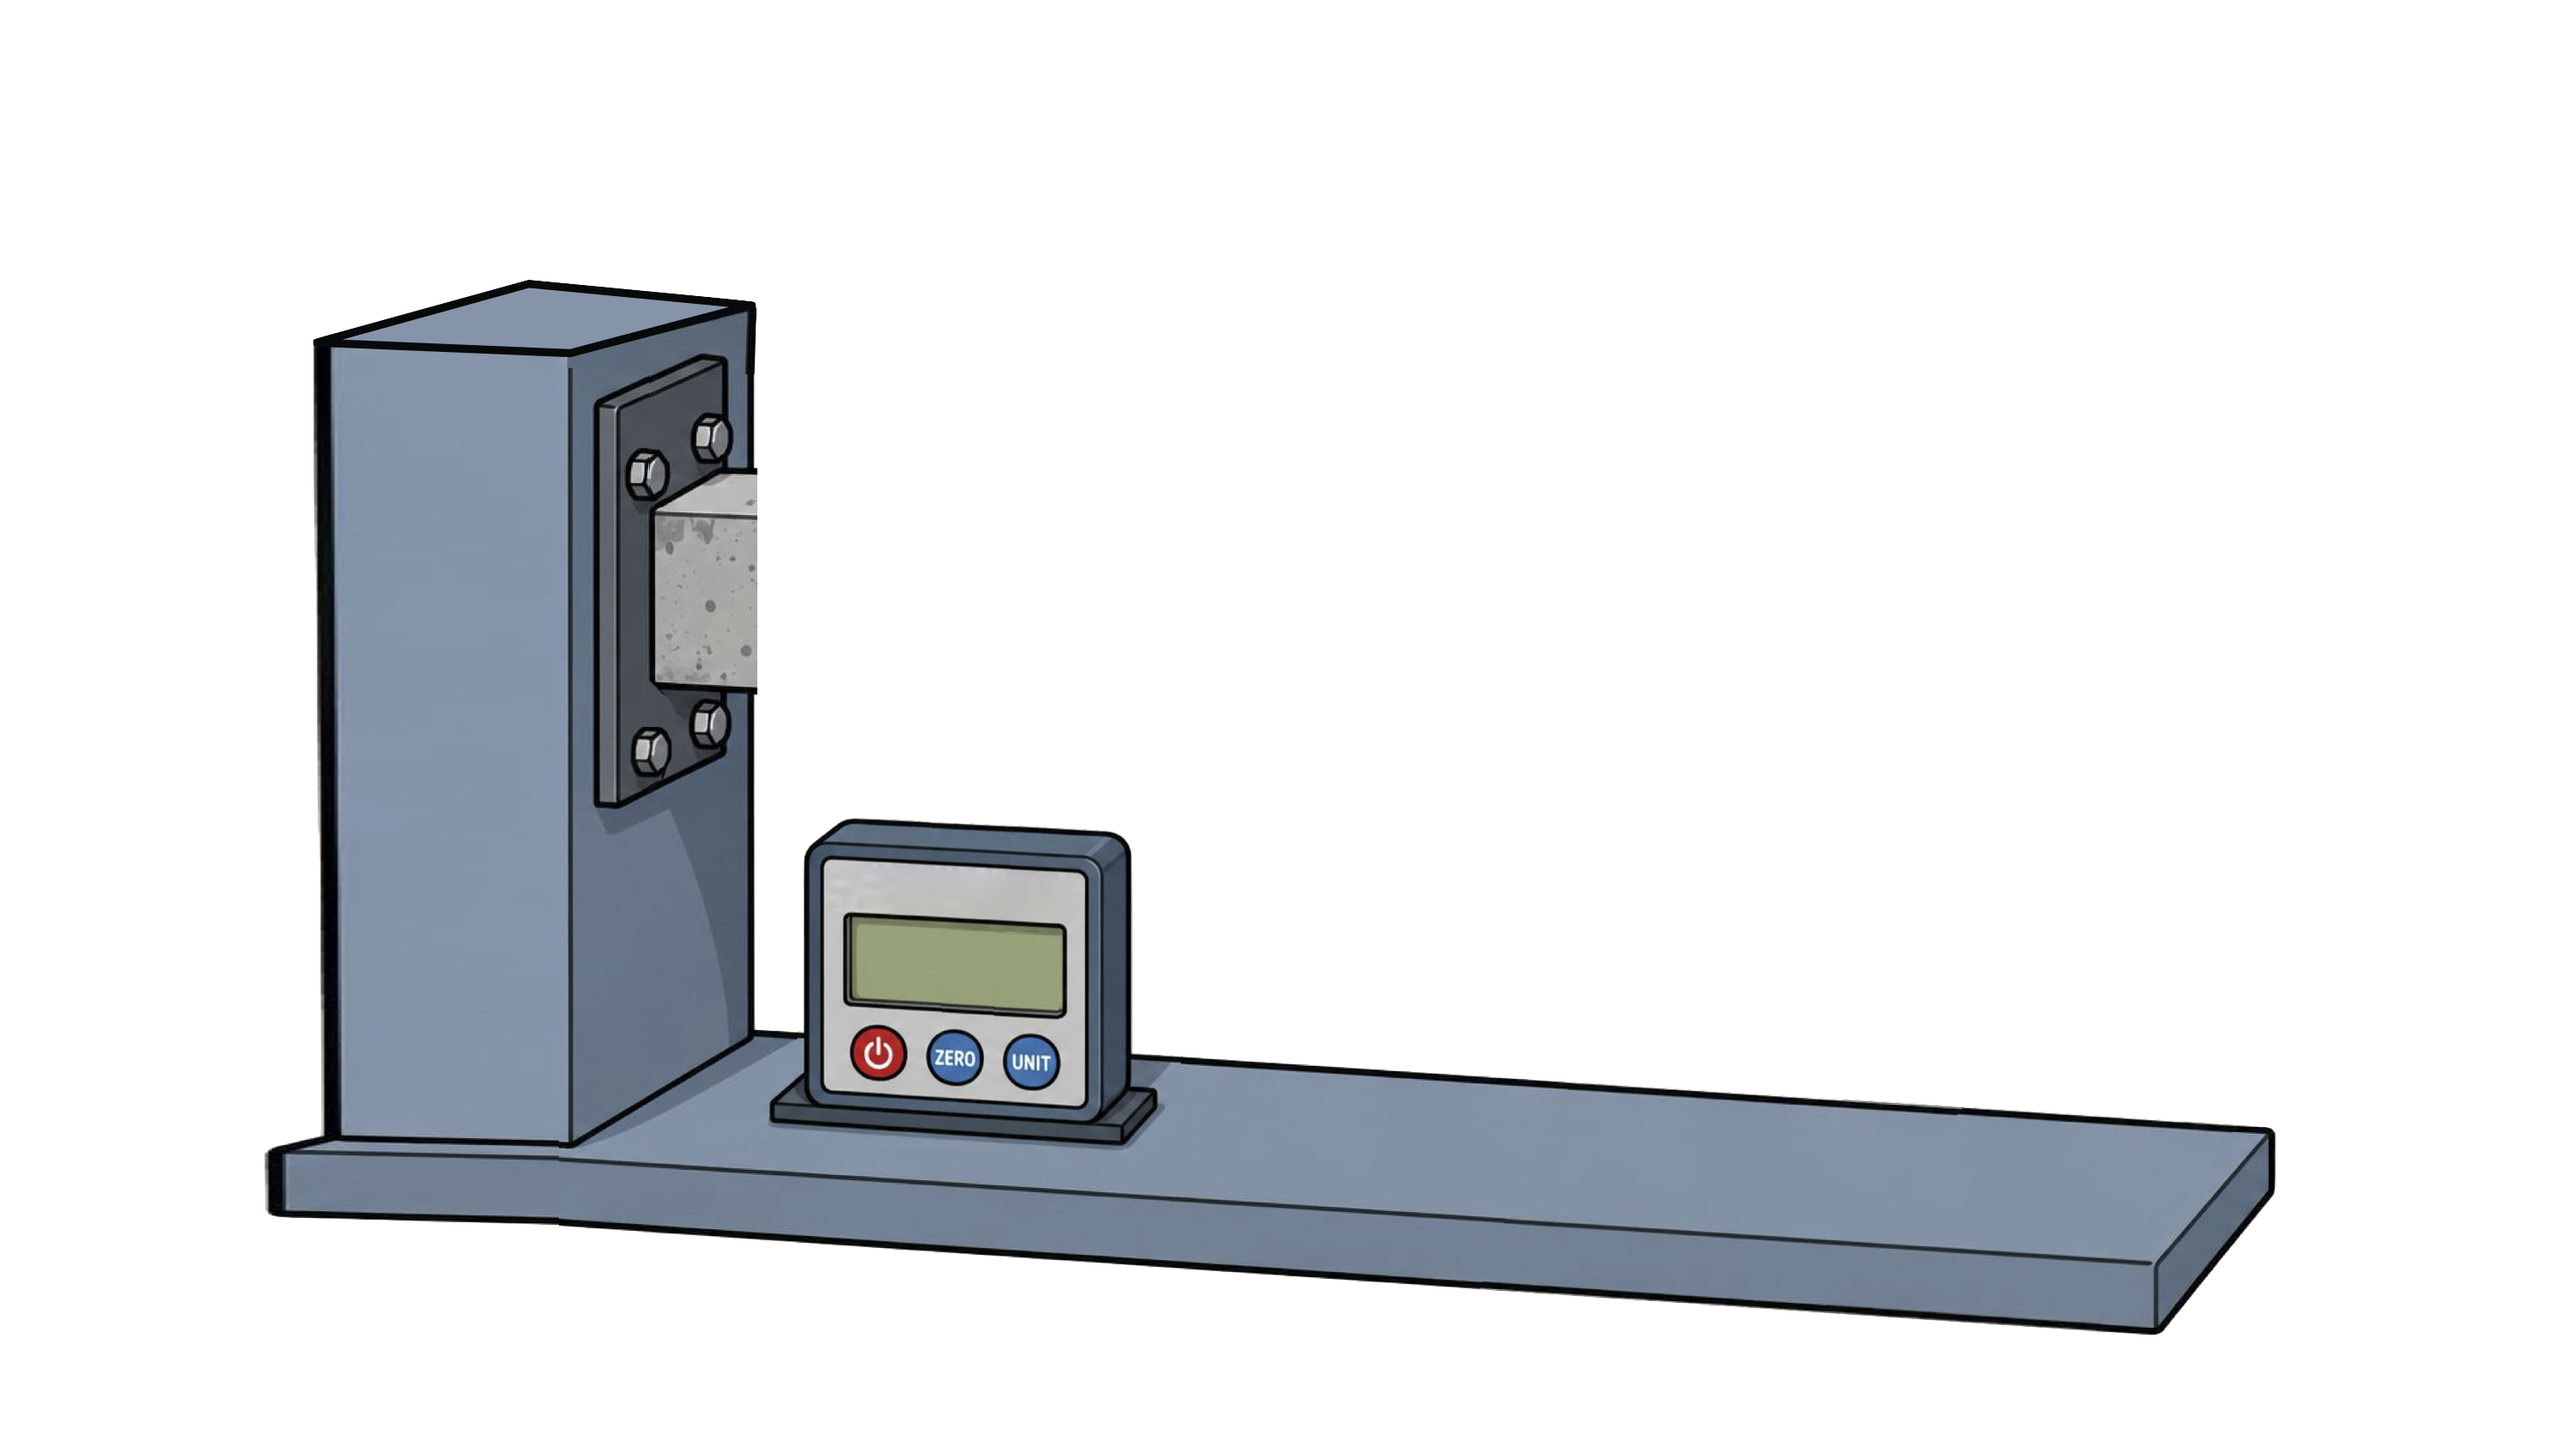
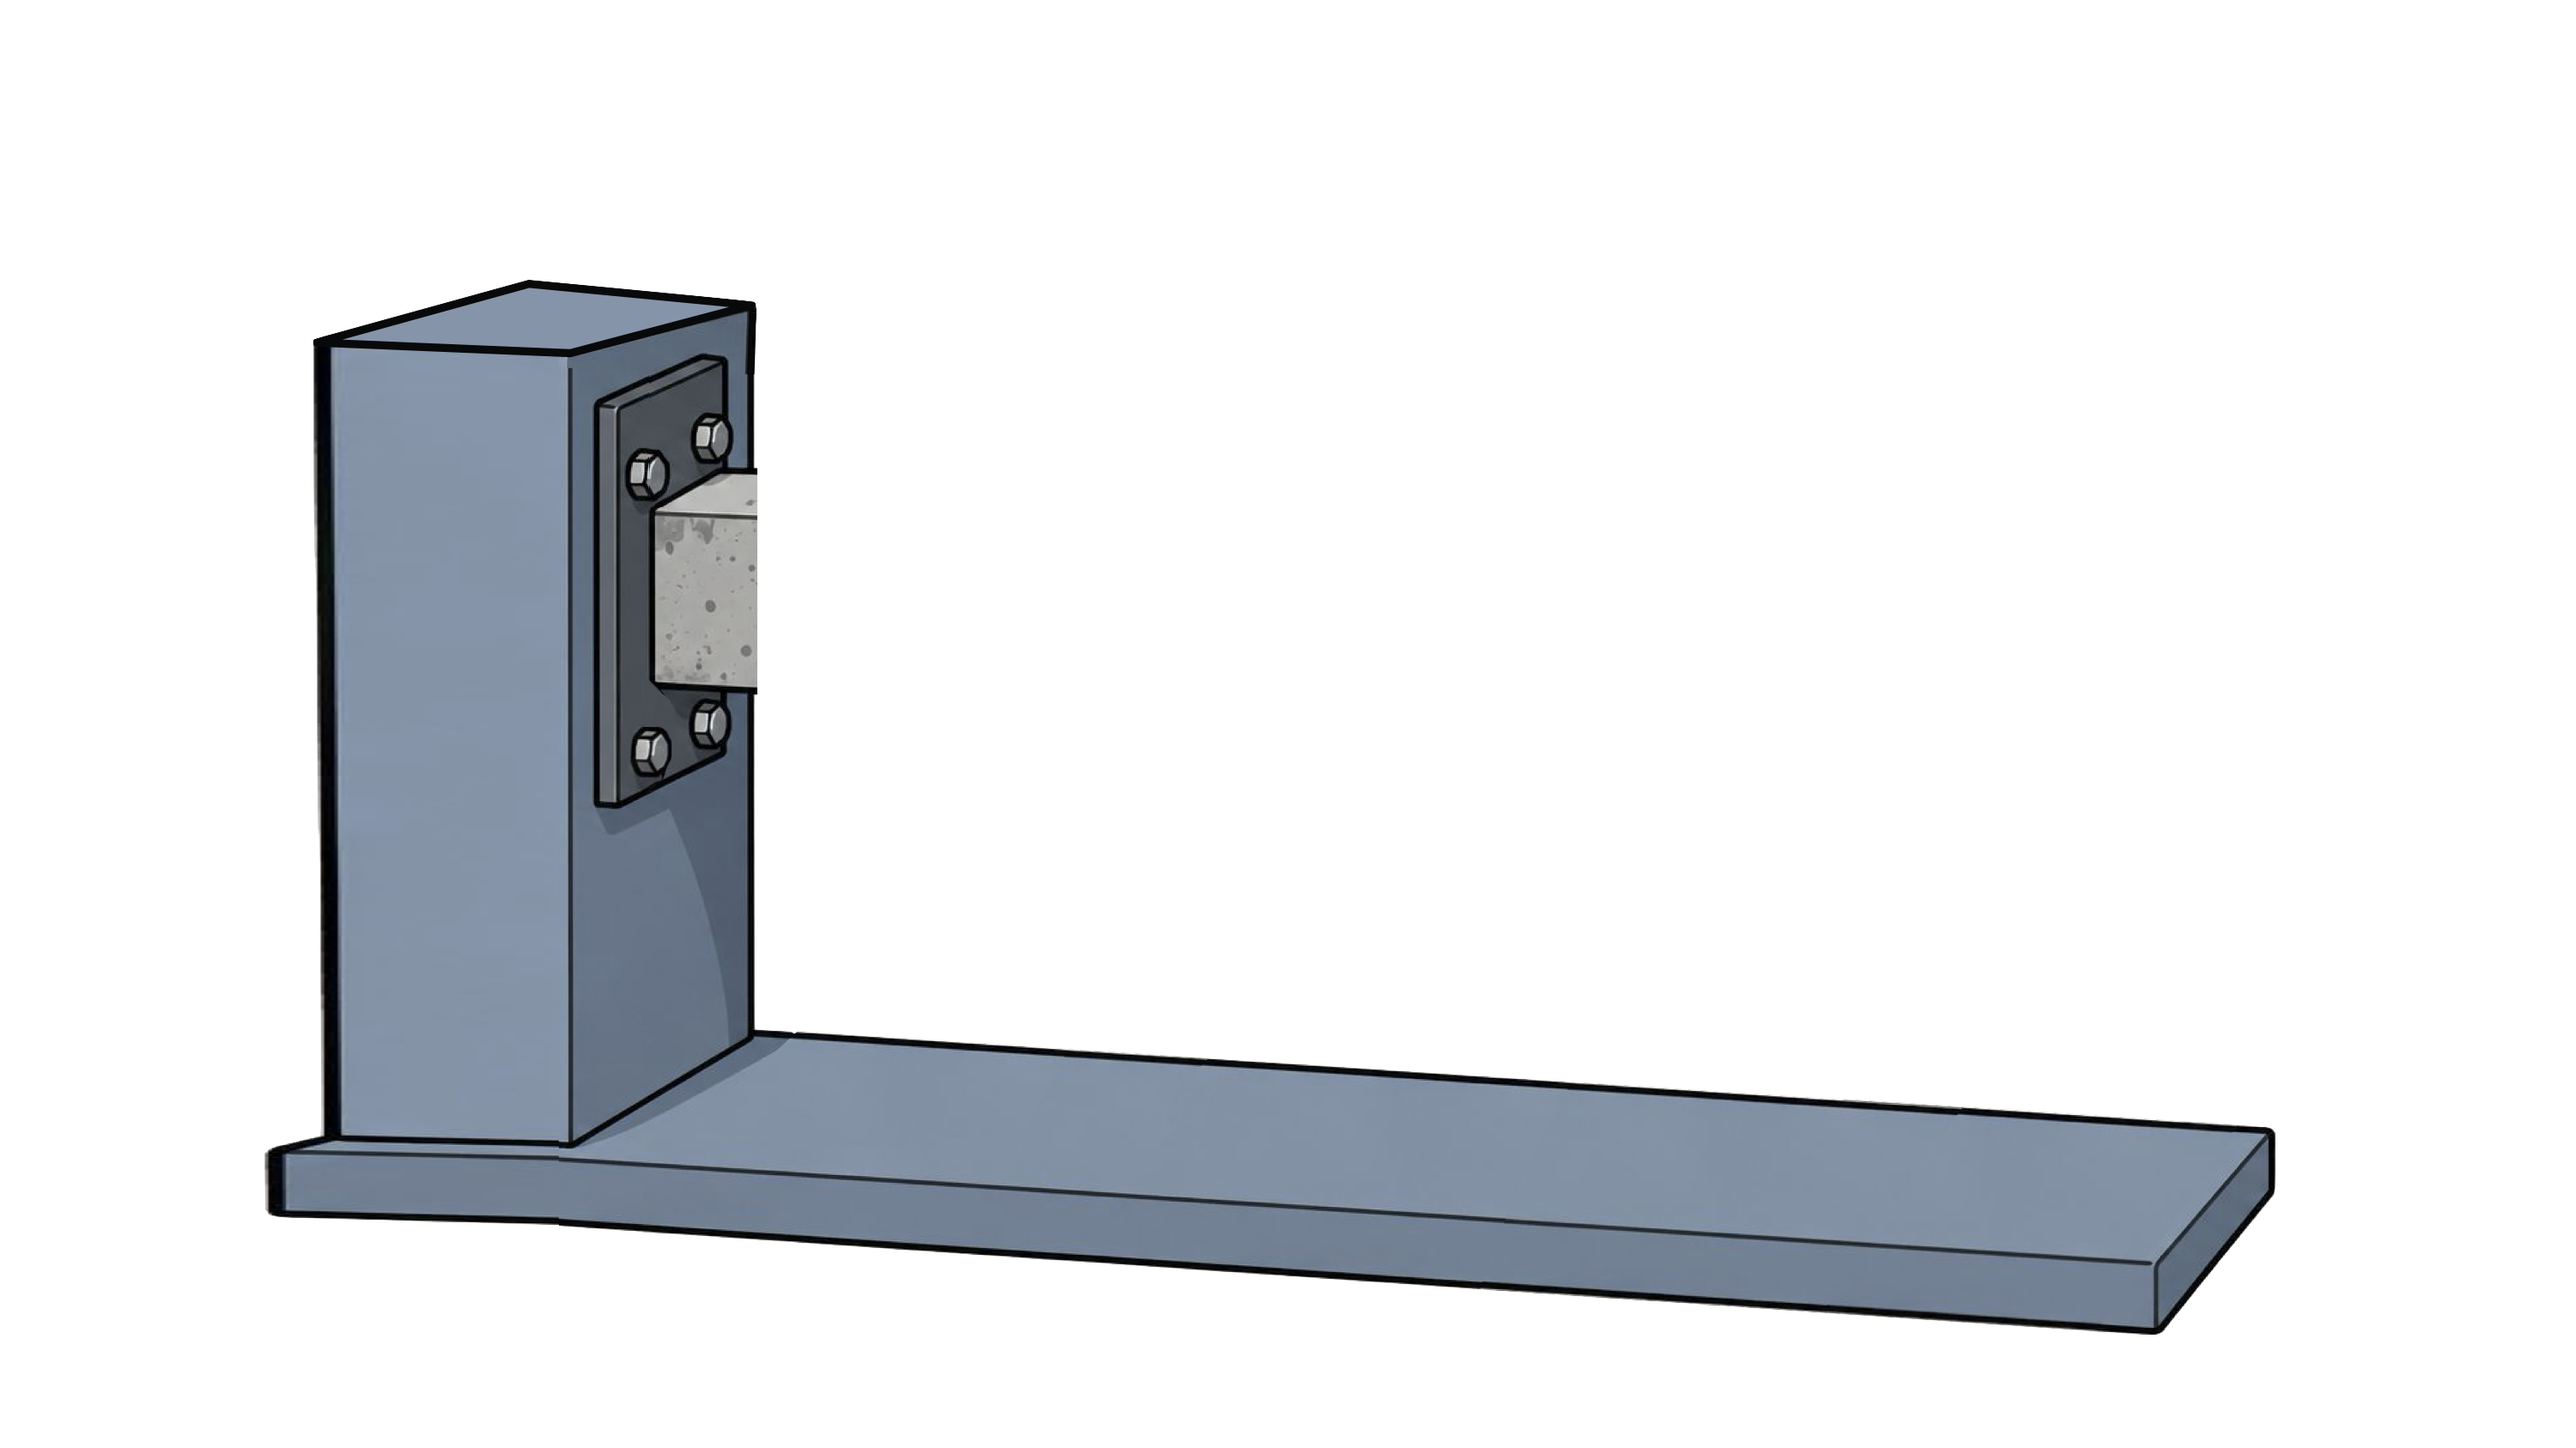
v4: update images; bond strain numbers toggle with dev sliders
- showDiag={showDevSliders} on all three MicroPanelB instances — activate dev
  panel (type 'dev') to see per-bond strain × 1000 labels on all bonds
- Updated BeamTestNoBeam.png and Pusher.png; add Display.png, DisplaySmall.png,
  PusherNoDisplay.png

Claude-Session: https://claude.ai/code/session_01DPc2eS6oUNYCpci72GpCCK

Changed region(s): [[0.279, 0.5548, 0.465, 0.8014]]

diff --git a/v4/src/ConcreteViewer.jsx b/v4/src/ConcreteViewer.jsx
@@ -1421,7 +1421,7 @@ export default function ConcreteViewer() {
               sandPct={panelSandPct}
               phase={isManual ? (manualRecording ? 'failed' : 'idle') : (phase === 'failed' && !hasRecording ? 'testing' : phase)}
               layoutSeed={layoutSeed}
-              force={panelForce} speed={speed} bondRound={bondRound} noDiag
+              force={panelForce} speed={speed} bondRound={bondRound} noDiag showDiag={showDevSliders}
               onSettled={isManual ? () => {} : handleSettled}
               onFailed={isManual ? () => {} : handleFailed}
               scrubT={isManual ? manualScrubT : (photoView === 'off' && hasRecording ? scrubT : null)}
@@ -1443,7 +1443,7 @@ export default function ConcreteViewer() {
               sandPct={panelSandPct}
               phase={isManual ? 'idle' : bluePhase}
               layoutSeed={blueLayoutSeed}
-              force={isManual ? 0 : panelForce} speed={speed} bondRound={bondRound} noDiag
+              force={isManual ? 0 : panelForce} speed={speed} bondRound={bondRound} noDiag showDiag={showDevSliders}
               grainOverride={blueGrains}
               crackWaypoints={blueCrackWaypoints}
               accentColor="#3d6fd4"
@@ -1463,7 +1463,7 @@ export default function ConcreteViewer() {
           <div style={{ flex: 1, minHeight: 0, display: 'flex', flexDirection: 'column' }}>
             <MicroPanelB
               sandPct={panelSandPct} phase="idle" layoutSeed={greyLayoutSeed}
-              force={0} speed={1} bondRound={bondRound} noDiag
+              force={0} speed={1} bondRound={bondRound} noDiag showDiag={showDevSliders}
               accentColor="#111111"
               onSettled={() => {}} onFailed={() => {}}
               scrubT={null}
